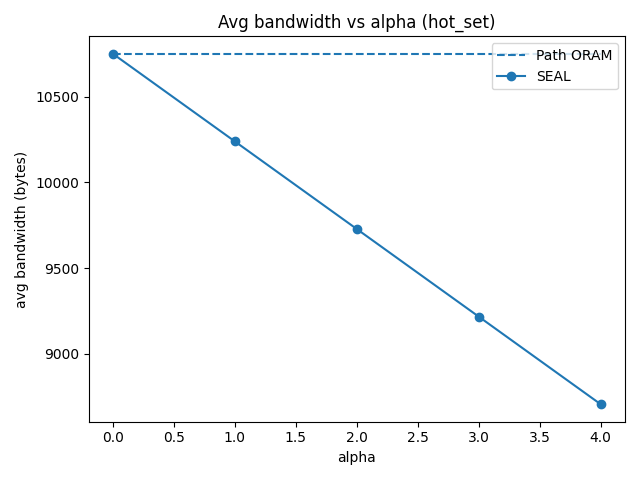
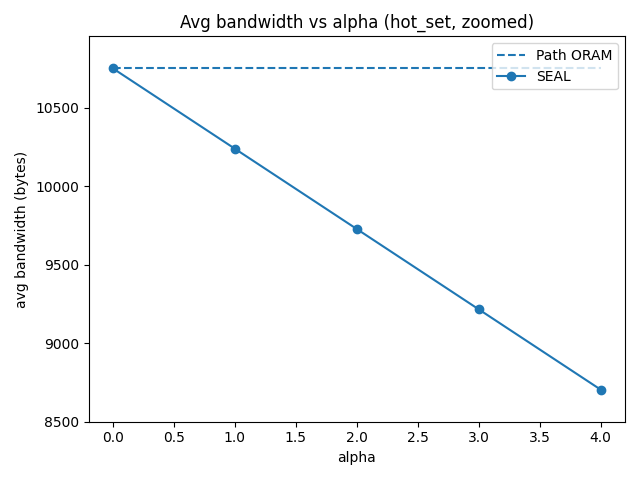
added src/eval/replot_saved_runs and replotted saved runs for light_seed1, light_seed2, and light_seed3

diff --git a/src/eval/replot_saved_runs.py b/src/eval/replot_saved_runs.py
@@ -1,0 +1,225 @@
+# src/eval/replot_saved_runs.py
+from __future__ import annotations
+
+import csv
+import json
+import os
+from typing import Dict, List, Tuple
+
+import matplotlib.pyplot as plt
+
+
+# ---------------------------------------------------------------------
+# Helpers
+# ---------------------------------------------------------------------
+
+def _load_json(path: str):
+    with open(path, "r", encoding="utf-8") as f:
+        return json.load(f)
+
+def _load_csv_rows(path: str) -> List[dict]:
+    with open(path, "r", encoding="utf-8") as f:
+        return list(csv.DictReader(f))
+
+def _apply_dynamic_ylim(all_y: List[float], margin: float = 0.01) -> None:
+    """
+    Tighten y-axis around the data while staying inside [0,1].
+    """
+    if not all_y:
+        plt.ylim(0.0, 1.0)
+        return
+
+    y_min = min(all_y)
+    y_max = max(all_y)
+
+    if abs(y_max - y_min) < 1e-9:
+        pad = 0.01
+    else:
+        pad = max(margin, 0.1 * (y_max - y_min))
+
+    lower = max(0.0, y_min - pad)
+    upper = min(1.0, y_max + pad)
+
+    if upper <= lower:
+        upper = min(1.0, lower + 0.02)
+
+    plt.ylim(lower, upper)
+
+
+# ---------------------------------------------------------------------
+# Over-time plots (QRSR / DRSR)
+# ---------------------------------------------------------------------
+
+def replot_over_time(json_path: str, out_path: str, metric: str, title: str) -> None:
+    """
+    Recreate QRSR/DRSR-over-time plots from saved over_time_*.json.
+    Expected JSON format:
+      {
+        "0": [[10, qrsr, drsr], [100, qrsr, drsr], ...],
+        "1": [[10, qrsr, drsr], ...],
+        ...
+      }
+    """
+    series = _load_json(json_path)
+
+    plt.figure()
+    all_y: List[float] = []
+
+    # sort alpha numerically, even though JSON keys are strings
+    for alpha_str in sorted(series.keys(), key=lambda x: int(x)):
+        points = series[alpha_str]
+        xs = [int(p[0]) for p in points]
+        ys = [float(p[1]) for p in points] if metric == "qrsr" else [float(p[2]) for p in points]
+
+        all_y.extend(ys)
+        plt.plot(xs, ys, marker="o", label=f"alpha={alpha_str}")
+
+    plt.xscale("log")
+    plt.xlabel("number of (distinct) queries observed")
+    plt.ylabel(metric.upper())
+    plt.title(title)
+    plt.legend()
+    _apply_dynamic_ylim(all_y)
+    plt.tight_layout()
+    plt.savefig(out_path)
+    plt.close()
+
+
+# ---------------------------------------------------------------------
+# Performance bandwidth plots
+# ---------------------------------------------------------------------
+
+def replot_perf_bandwidth(csv_path: str, out_path: str, title: str) -> None:
+    """
+    Recreate perf_bandwidth_*.png from saved perf_*.csv.
+    Expected CSV columns include:
+      scheme, alpha, avg_bandwidth_bytes
+    """
+    rows = _load_csv_rows(csv_path)
+
+    path_rows = [r for r in rows if r["scheme"] == "path_oram"]
+    seal_rows = [r for r in rows if r["scheme"] == "seal"]
+
+    plt.figure()
+    all_y: List[float] = []
+
+    # Path ORAM baseline (horizontal line)
+    if path_rows:
+        path_bw = float(path_rows[0]["avg_bandwidth_bytes"])
+        all_y.append(path_bw)
+
+        alphas_for_bounds = [int(r["alpha"]) for r in seal_rows] if seal_rows else [0]
+        xmin = min(alphas_for_bounds)
+        xmax = max(alphas_for_bounds)
+
+        plt.hlines(
+            path_bw,
+            xmin=xmin,
+            xmax=xmax,
+            linestyles="--",
+            label="Path ORAM"
+        )
+
+    # SEAL curve
+    seal_sorted = sorted(seal_rows, key=lambda r: int(r["alpha"]))
+    xs = [int(r["alpha"]) for r in seal_sorted]
+    ys = [float(r["avg_bandwidth_bytes"]) for r in seal_sorted]
+
+    if xs and ys:
+        all_y.extend(ys)
+        plt.plot(xs, ys, marker="o", label="SEAL")
+
+    plt.xlabel("alpha")
+    plt.ylabel("avg bandwidth (bytes)")
+    plt.title(title)
+    plt.legend()
+
+    # Dynamic y scaling for perf too (not clamped to [0,1])
+    if all_y:
+        y_min = min(all_y)
+        y_max = max(all_y)
+        if abs(y_max - y_min) < 1e-9:
+            pad = max(1.0, 0.05 * y_max if y_max > 0 else 1.0)
+        else:
+            pad = max(1.0, 0.1 * (y_max - y_min))
+        lower = max(0.0, y_min - pad)
+        upper = y_max + pad
+        if upper <= lower:
+            upper = lower + 1.0
+        plt.ylim(lower, upper)
+
+    plt.tight_layout()
+    plt.savefig(out_path)
+    plt.close()
+
+
+# ---------------------------------------------------------------------
+# Run-folder driver
+# ---------------------------------------------------------------------
+
+def replot_run(run_dir: str) -> None:
+    results_dir = os.path.join(run_dir, "results")
+    plots_dir = os.path.join(run_dir, "plots")
+
+    if not os.path.isdir(results_dir):
+        print(f"Skipping {run_dir}: no results/ directory")
+        return
+    if not os.path.isdir(plots_dir):
+        print(f"Skipping {run_dir}: no plots/ directory")
+        return
+
+    patterns = ["uniform", "zipf_like", "hot_set"]
+
+    for pattern in patterns:
+        # over_time JSON -> qrsr/drsr plots
+        json_path = os.path.join(results_dir, f"over_time_{pattern}.json")
+        if os.path.exists(json_path):
+            qrsr_out = os.path.join(plots_dir, f"qrsr_over_time_{pattern}.png")
+            drsr_out = os.path.join(plots_dir, f"drsr_over_time_{pattern}.png")
+
+            replot_over_time(
+                json_path=json_path,
+                out_path=qrsr_out,
+                metric="qrsr",
+                title=f"{pattern}: QRSR vs queries (zoomed)"
+            )
+            replot_over_time(
+                json_path=json_path,
+                out_path=drsr_out,
+                metric="drsr",
+                title=f"{pattern}: DRSR vs queries (zoomed)"
+            )
+            print(f"Replotted over-time plots for {run_dir} / {pattern}")
+        else:
+            print(f"Missing {json_path}")
+
+        # perf CSV -> perf bandwidth plot
+        csv_path = os.path.join(results_dir, f"perf_{pattern}.csv")
+        perf_out = os.path.join(plots_dir, f"perf_bandwidth_{pattern}.png")
+        if os.path.exists(csv_path):
+            replot_perf_bandwidth(
+                csv_path=csv_path,
+                out_path=perf_out,
+                title=f"Avg bandwidth vs alpha ({pattern}, zoomed)"
+            )
+            print(f"Replotted perf plot for {run_dir} / {pattern}")
+        else:
+            print(f"Missing {csv_path}")
+
+
+def main() -> None:
+    # Change these if your run folder names differ.
+    run_dirs = [
+        os.path.join("out", "light_seed1"),
+        os.path.join("out", "light_seed2"),
+        os.path.join("out", "light_seed3"),
+    ]
+
+    for run_dir in run_dirs:
+        replot_run(run_dir)
+
+    print("\nDone. Existing plot PNGs have been replaced with zoomed versions.")
+
+
+if __name__ == "__main__":
+    main()
